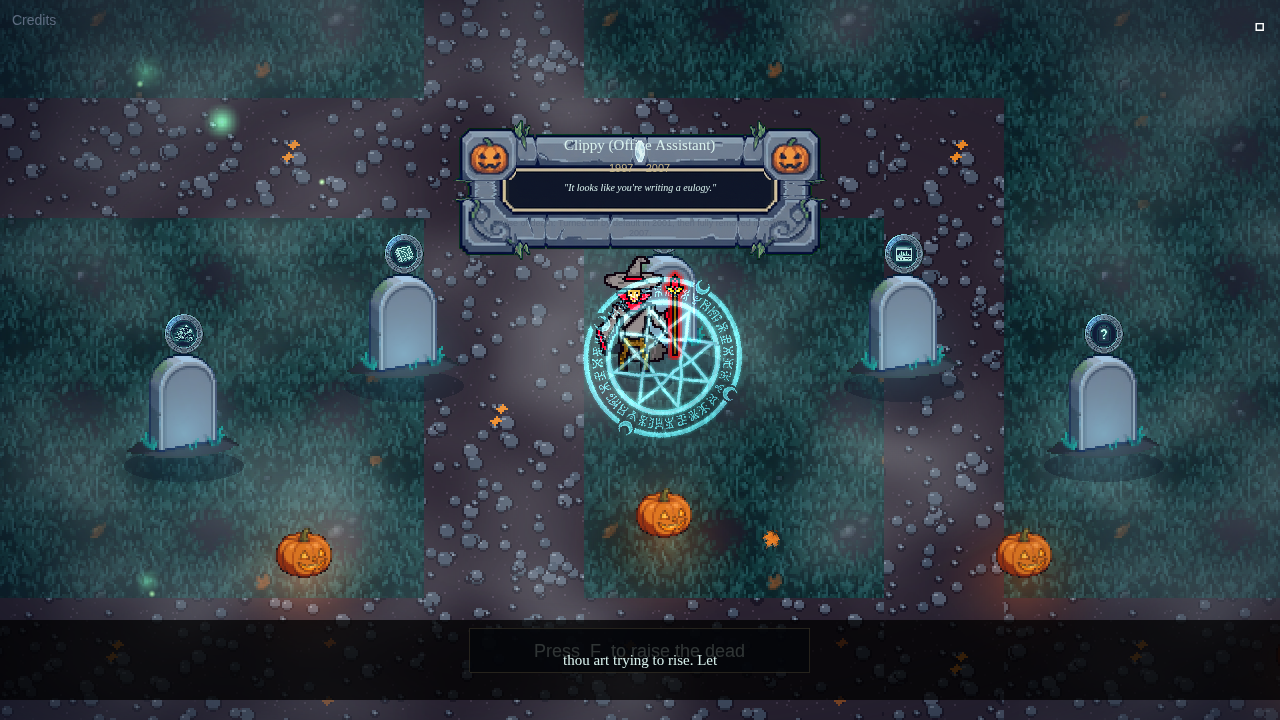
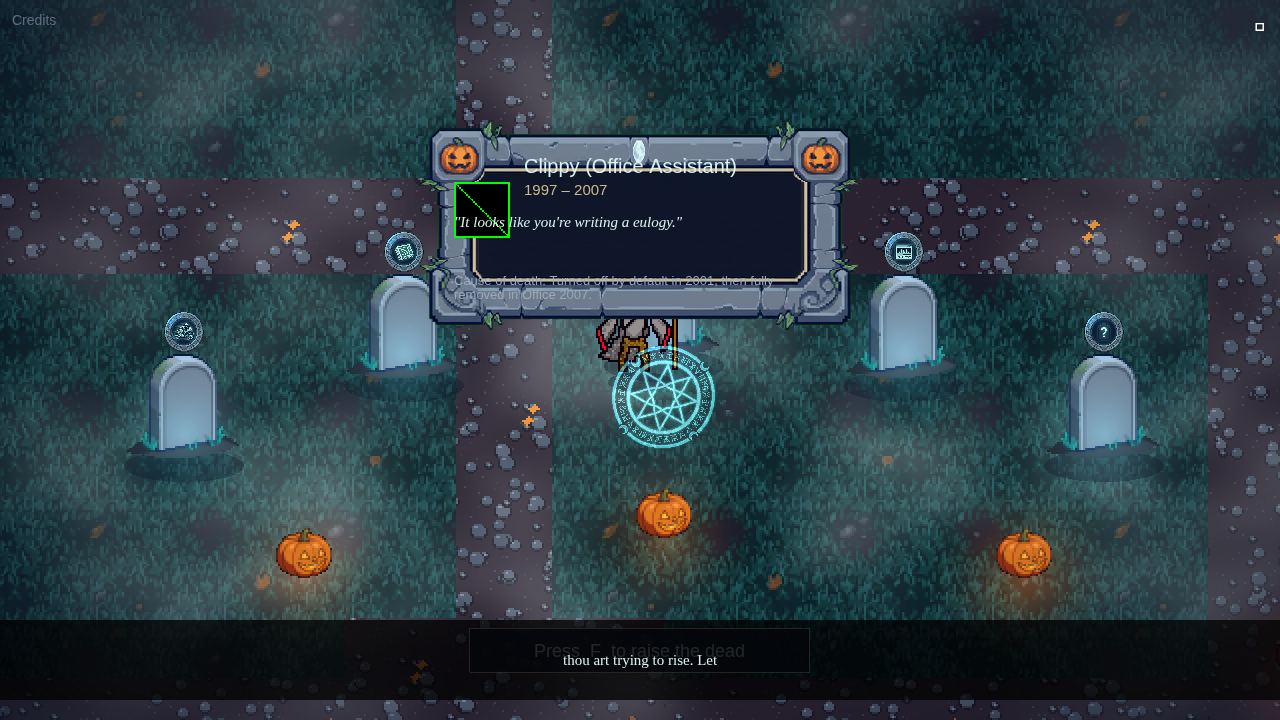
Fix round 2 (Kiro): per-grave plaque medallions, top-anchored plaque sized to content, HUD hidden in ritual/credits, trees around plaza, stone swap visibility

diff --git a/src/scenes/CreditsScene.ts b/src/scenes/CreditsScene.ts
@@ -15,7 +15,7 @@ interface CreditsInitData {
 
 export class CreditsScene extends Phaser.Scene {
   private fromScene = 'TitleScene';
-  private creditsLines: string[] = [];
+  private creditsLines: Array<{ text: string; isHeading: boolean }> = [];
   private scrollY = 0;
   private lineHeight = 18;
   private contentHeight = 0;
@@ -96,12 +96,12 @@ export class CreditsScene extends Phaser.Scene {
       const md = await res.text();
       this.creditsLines = this.parseMarkdown(md);
     } catch {
-      this.creditsLines = ['(Could not load CREDITS.md)'];
+      this.creditsLines = [{ text: '(Could not load CREDITS.md)', isHeading: false }];
     }
 
     const allLines = [
-      ...REQUIRED,
-      '',
+      ...REQUIRED.map((text) => ({ text, isHeading: false })),
+      { text: '', isHeading: false },
       ...this.creditsLines,
     ];
 
@@ -109,34 +109,44 @@ export class CreditsScene extends Phaser.Scene {
     let y = 68;
 
     for (const line of allLines) {
-      const isRequired = REQUIRED.includes(line);
-      const isHeader = line.trim().startsWith('—') || line.trim() === '';
-
-      if (line.trim() === '') {
+      if (line.text.trim() === '') {
         y += 12; // spacing between sections
         continue;
       }
 
-      const text = this.add.text(startX, y, line, {
-        fontFamily: isHeader ? "'Cinzel', serif" : "'Pixelify Sans', sans-serif",
-        fontSize: isHeader ? '14px' : '12px',
-        color: isRequired ? '#c9b98a' : (isHeader ? '#d9f2ee' : '#9aa8b8'),
+      const isHeading = line.isHeading;
+      const text = this.add.text(startX, y, line.text, {
+        fontFamily: isHeading ? "'Cinzel', serif" : "'Pixelify Sans', sans-serif",
+        fontSize: isHeading ? '20px' : '12px',
+        color: isHeading ? '#c9b98a' : '#9aa8b8',
         wordWrap: { width: width - 64, useAdvancedWrap: true },
       });
       text.setDepth(4);
       this.textContainer.add(text);
+      
+      // Add extra margin above headings
+      if (isHeading && y > 68) {
+        y += 8;
+      }
+      
       y += text.displayHeight + 8;
     }
 
     this.contentHeight = y + 40;
   }
 
-  private parseMarkdown(md: string): string[] {
-    const lines: string[] = [];
+  private parseMarkdown(md: string): Array<{ text: string; isHeading: boolean }> {
+    const lines: Array<{ text: string; isHeading: boolean }> = [];
     const rawLines = md.split('\n');
 
     for (const line of rawLines) {
       let processed = line;
+      let isHeading = false;
+
+      // Check if this line is a heading (starts with #)
+      if (processed.trim().startsWith('#')) {
+        isHeading = true;
+      }
 
       // Skip table header and separator rows
       if (processed.includes('|---') || (processed.startsWith('|') && rawLines.indexOf(line) === 1)) {
@@ -149,13 +159,12 @@ export class CreditsScene extends Phaser.Scene {
       // Strip markdown formatting
       processed = processed.replace(/\*\*([^\*]+)\*\*/g, '$1'); // bold
       processed = processed.replace(/`([^`]+)`/g, '$1'); // code
-      processed = processed.replace(/# /g, ''); // headings
-      processed = processed.replace(/^## /g, ''); // subheadings
+      processed = processed.replace(/^#+\s/g, ''); // strip leading # characters (headings)
       processed = processed.replace(/\| /g, ''); // table delimiters
       processed = processed.trim();
 
       if (processed.length > 0) {
-        lines.push(processed);
+        lines.push({ text: processed, isHeading });
       }
     }
 
@@ -168,10 +177,9 @@ export class CreditsScene extends Phaser.Scene {
 
   private goBack(): void {
     this.scene.stop('CreditsScene');
-    // If GraveyardWorld is running, make sure UIScene is up
+    // If GraveyardWorld is running, resume UIScene
     if (this.fromScene === 'GraveyardWorld') {
-      const gw = this.scene.get('GraveyardWorld');
-      if (gw) this.scene.resume('GraveyardWorld');
+      this.scene.resume('UIScene');
     }
   }
 }

diff --git a/src/scenes/UIScene.ts b/src/scenes/UIScene.ts
@@ -59,12 +59,25 @@ export class UIScene extends Phaser.Scene {
     creditsBtn.on('pointerout',  () => creditsBtn.setColor('#5d6b80'));
     creditsBtn.on('pointerdown', () => {
       this.scene.launch('CreditsScene', { from: 'GraveyardWorld' });
+      this.scene.pause('UIScene');
     });
 
     // Listen for events from GraveyardWorld
     this.events.on('proximityChanged', this.onProximityChanged, this);
     this.events.on('plaqueChanged',    this.onPlaqueChanged,    this);
     this.events.on('muteChanged',      (muted: boolean) => this.updateMuteIcon(muted), this);
+
+    // Listen for ritual and overlay events
+    this.events.on('ritualStarted', () => {
+      this.hidePlaque();
+      this.hint.hide();
+    });
+    this.events.on('overlayOpened', () => {
+      this.hint.hide();
+    });
+    this.events.on('ritualEnded', () => {
+      // Plaque and hint will be restored by proximity check
+    });
   }
 
   private updateMuteIcon(muted: boolean): void {
@@ -91,11 +104,13 @@ export class UIScene extends Phaser.Scene {
   // ─── Plaque ──────────────────────────────────────────────────────────────
 
   private createPlaque(): Phaser.GameObjects.Container {
-    const container = this.add.container(640, 120);
+    const container = this.add.container(640, 24);
 
     const PANEL_W = 440;
-    const PANEL_H = 210;
-    const PADDING = 34;
+    const PANEL_H = 200;
+    const PADDING = 36;
+    const PADDING_TOP = 44;
+    const PADDING_SIDE = 36;
 
     // NineSlice panel
     const panel = this.add.nineslice(
@@ -106,10 +121,10 @@ export class UIScene extends Phaser.Scene {
     panel.setOrigin(0.5, 0);
 
     // Inner content area
-    const contentX = -PANEL_W / 2 + PADDING;
-    const contentY = PADDING;
-    const contentW = PANEL_W - 2 * PADDING;
-    const contentH = PANEL_H - 2 * PADDING;
+    const contentX = -PANEL_W / 2 + PADDING_SIDE;
+    const contentY = PADDING_TOP;
+    const contentW = PANEL_W - 2 * PADDING_SIDE;
+    const contentH = PANEL_H - PADDING_TOP - PADDING;
 
     // Medallion (for resurrectable graves)
     const medallion = this.add.image(contentX, contentY + 28, 'medal_generic');
@@ -174,10 +189,22 @@ export class UIScene extends Phaser.Scene {
     (get('epitaphText') as Phaser.GameObjects.Text).setText(`"${grave.epitaph}"`);
     (get('causeText') as Phaser.GameObjects.Text).setText(`Cause of death: ${grave.cause_of_death}`);
 
-    // Update medallion visibility for resurrectable graves
+    // Update medallion texture and visibility for resurrectable graves
     const medallion = get('medallion') as Phaser.GameObjects.Image;
+    const medallionKeyMap: Record<string, string> = {
+      'road-rash':      'medal_roadrash',
+      'google-reader':  'medal_reader',
+      'clippy':         'medal_clippy',
+      'winamp':         'medal_winamp',
+      'unmarked-grave': 'medal_unmarked',
+    };
+    
     if (grave.resurrectable) {
       medallion.setVisible(true);
+      const medalKey = medallionKeyMap[grave.id];
+      if (medalKey) {
+        medallion.setTexture(medalKey);
+      }
     } else {
       medallion.setVisible(false);
     }

diff --git a/src/scenes/GraveyardWorld.ts b/src/scenes/GraveyardWorld.ts
@@ -34,7 +34,7 @@ export class GraveyardWorld extends Phaser.Scene {
   private joystick!: Joystick;
 
   // World objects
-  private tombstones: Tombstone[] = [];
+  public tombstones: Tombstone[] = [];
   private tombstoneGroup!: Phaser.Physics.Arcade.StaticGroup;
   private graves: GraveEntry[] = [];
 
@@ -144,6 +144,33 @@ export class GraveyardWorld extends Phaser.Scene {
 
   private spawnDecoratives(): void {
     const treeKeys = ['tree_1', 'tree_2', 'tree_3', 'tree_4'];
+    
+    // Central plaza area around spawn (~1200, 900)
+    // Add 6-8 trees at edges, 40+ px away from graves and paths
+    const centralPazaTrees = [
+      { x: 1040, y: 650 },  // upper-left edge
+      { x: 1230, y: 620 },  // upper-center
+      { x: 1420, y: 650 },  // upper-right edge
+      { x: 1530, y: 800 },  // right edge
+      { x: 1420, y: 970 },  // lower-right edge
+      { x: 1230, y: 1000 }, // lower-center
+      { x: 1040, y: 970 },  // lower-left edge
+      { x: 900, y: 800 },   // left edge
+    ];
+    
+    for (let i = 0; i < centralPazaTrees.length; i++) {
+      const pos = centralPazaTrees[i];
+      const key = treeKeys[i % treeKeys.length];
+      const tree = this.add.image(pos.x, pos.y, key);
+      tree.setOrigin(0.5, 1);
+      tree.setDepth(pos.y);
+
+      // Shadow
+      const sh = this.add.ellipse(pos.x, pos.y, 60, 18, 0x0b1020, 0.35);
+      sh.setDepth(pos.y - 1);
+    }
+    
+    // Original decorative trees
     const treePositions = [
       { x: 280, y: 300 }, { x: 2150, y: 280 }, { x: 350, y: 1400 },
       { x: 2100, y: 1380 }, { x: 600, y: 1250 }, { x: 1800, y: 1350 },
@@ -617,7 +644,8 @@ export class GraveyardWorld extends Phaser.Scene {
   teleportToGrave(id: string): void {
     const layout = MAP_LAYOUT.find((l) => l.id === id);
     if (!layout) return;
-    this.wizard.setPosition(layout.x, layout.y + 40);
+    // Position wizard 44 art px below the stone's base (stone origin at 0.5, 1)
+    this.wizard.setPosition(layout.x, layout.y + 44);
     this.cameras.main.centerOn(layout.x, layout.y);
   }
 

diff --git a/src/scenes/ResurrectionRitual.ts b/src/scenes/ResurrectionRitual.ts
@@ -129,6 +129,12 @@ export class ResurrectionRitual extends Phaser.Scene {
     const gwScene = this.scene.get('GraveyardWorld');
     gwScene?.input.keyboard?.disableGlobalCapture();
 
+    // ── Emit ritual started event to UIScene ──────────────────────────────
+    const uiScene = this.scene.get('UIScene');
+    if (uiScene) {
+      uiScene.events.emit('ritualStarted');
+    }
+
     // ── Start ritual timeline ──────────────────────────────────────────────
     this.startRitual();
   }
@@ -438,6 +444,12 @@ export class ResurrectionRitual extends Phaser.Scene {
     // Re-enable GraveyardWorld input
     const gwScene = this.scene.get('GraveyardWorld') as Phaser.Scene;
     gwScene?.input.keyboard?.enableGlobalCapture();
+
+    // Emit ritual ended event to UIScene
+    const uiScene = this.scene.get('UIScene');
+    if (uiScene) {
+      uiScene.events.emit('ritualEnded');
+    }
 
     this.scene.stop('ResurrectionRitual');
   }

diff --git a/research/fix-round-2.md b/research/fix-round-2.md
@@ -1,0 +1,10 @@
+# Visual fix round 2 (final) — from research/screens/ after round 1
+
+1. **Plaque medallion is a missing texture** (green box): UIScene uses texture key `medal_generic`, which is never loaded. Set the medallion texture per grave (road-rash→medal_roadrash, google-reader→medal_reader, clippy→medal_clippy, winamp→medal_winamp, unmarked-grave→medal_unmarked) with `setTexture()` each time the plaque is shown, and hide it for decorative graves (shift the text left when hidden).
+2. **Plaque layout**: the "Cause of death" line is missing/clipped and the name text overlaps the frame's top border/moon emblem. Increase plaque height to fit all four lines (measure text heights and size the NineSlice to content, min 200 px), push the content start ~44 px below the top edge, and keep ~36 px side padding. Text must never extend past the frame.
+3. **Plaque must not cover the grave or the wizard**: anchor the plaque at the top-centre of the screen (y ≈ 24 px from top) instead of above the grave. Hide it (and the "Press F" prompt) while the ResurrectionRitual or the overlay is active; show again after exit.
+4. **Hide HUD during Credits**: when CreditsScene is open, hide/sleep UIScene (the "Press F" prompt and the "Credits" label were showing through the Credits screen). Restore on Back.
+5. **Credits markdown**: lines still start with `#` (e.g. "#Images", "#Audio"): strip any number of leading `#` characters. Render section headings in Cinzel 20px #c9b98a with extra top margin.
+6. **Stone visibility in the ritual**: after `teleportToGrave('clippy')` the clippy stone isn't clearly visible, and after exit only a small fragment is seen next to the wizard. Verify that teleportToGrave places the wizard 44 art px below the stone's base (stone origin (0.5,1)) and that the Tombstone sprite for the ritual grave is the one whose texture is swapped (plain → cracked → rubble) and restored to `tomb_plain` on exit — it must remain at full size and depth y-sorted (stone above the wizard's head is fine since wizard is in front/lower).
+7. **Trees near spawn**: none are visible within the first screen around the spawn point. Add 6–8 trees around the central plaza edges (outside paths and at least 40 art px away from graves) so the opening view shows the twisted trees with the pumpkins and graves.
+After changes run `npm run build` until it passes with zero TS errors.
